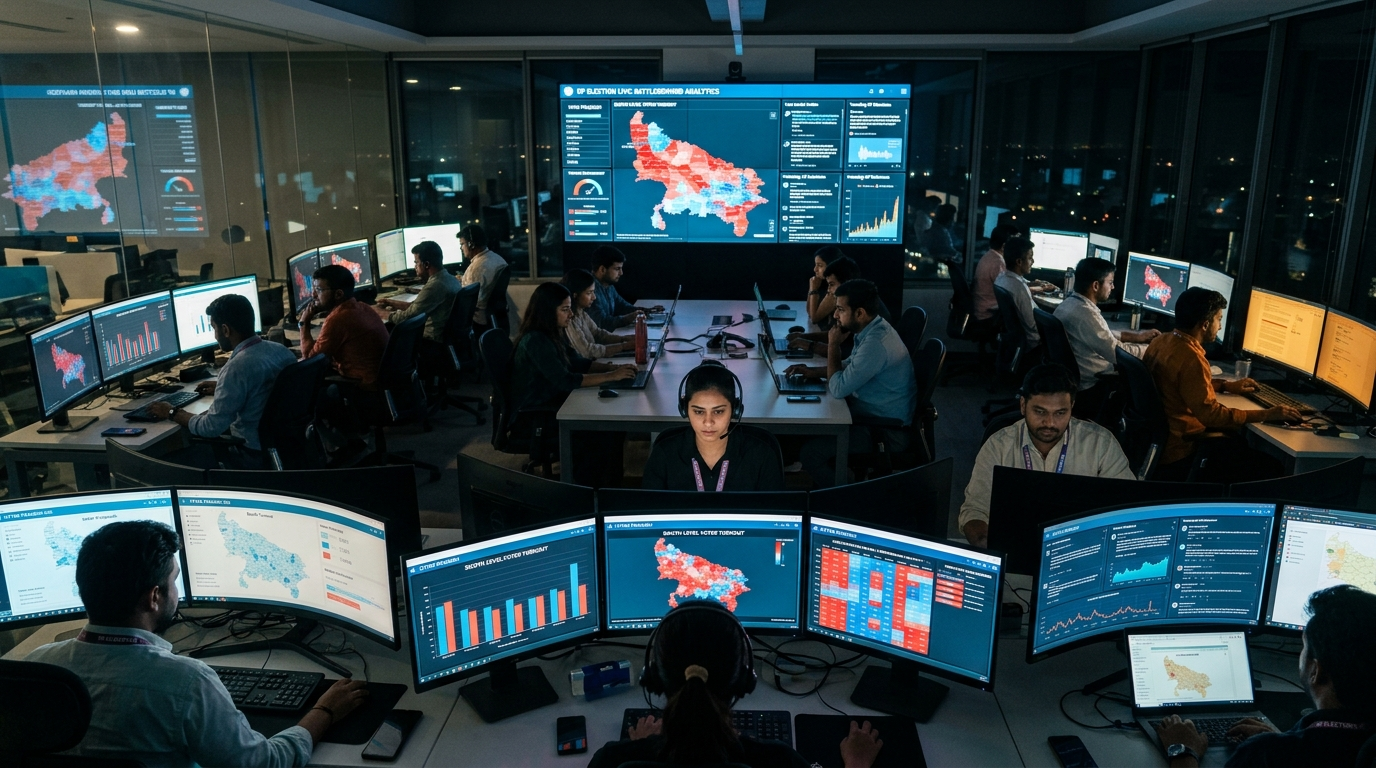
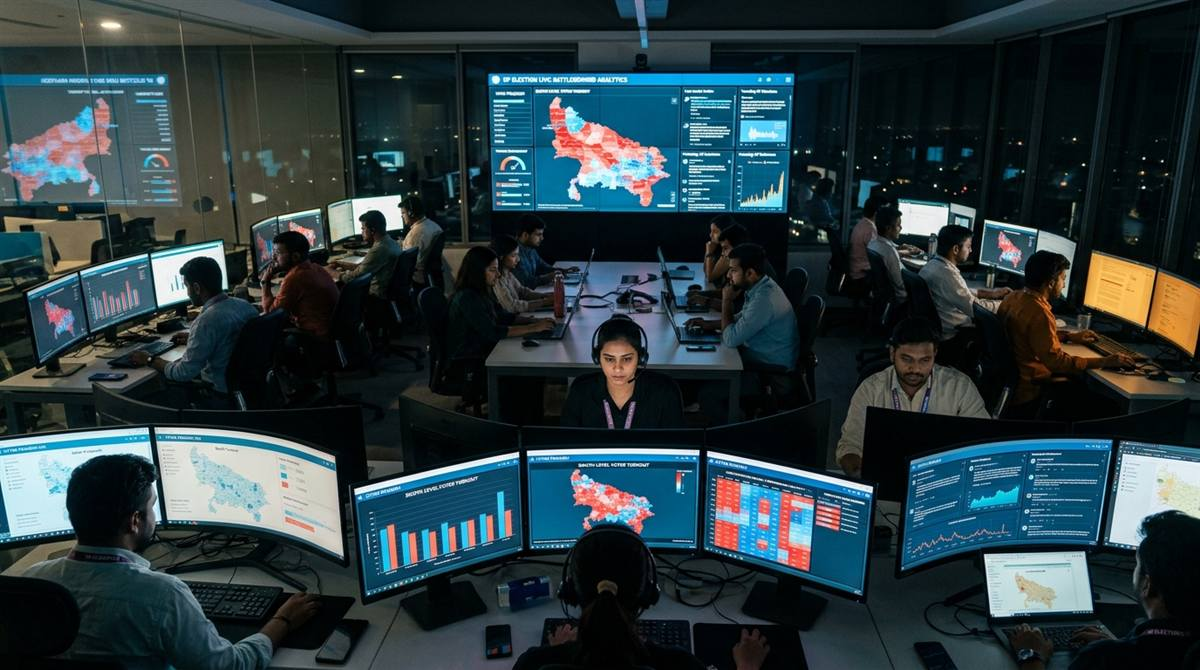
Optimize site performance: compress images 85%+, defer ambient video stream, enable asset caching and gzip

Changed region(s): [[0.6167, 0.806, 0.6475, 0.8358], [0.0925, 0.4478, 0.1233, 0.4776]]

diff --git a/components/common/VideoFacade.tsx b/components/common/VideoFacade.tsx
@@ -1,6 +1,6 @@
 'use client';
 
-import React, { useState, useRef } from 'react';
+import React, { useState, useRef, useEffect } from 'react';
 import { Play, RotateCcw, Video as VideoIcon, Volume2 } from 'lucide-react';
 import { cn } from '@/lib/utils';
 
@@ -13,6 +13,7 @@ interface VideoFacadeProps {
   className?: string;
   badge?: string;
   autoPlayPreview?: boolean;
+  poster?: string;
 }
 
 export function VideoFacade({
@@ -24,9 +25,21 @@ export function VideoFacade({
   className,
   badge = 'Brand Showreel 4K',
   autoPlayPreview = true,
+  poster = '/images/projects/warroom.jpg',
 }: VideoFacadeProps) {
   const [isPlaying, setIsPlaying] = useState(false);
+  const [isAmbientReady, setIsAmbientReady] = useState(false);
   const videoRef = useRef<HTMLVideoElement>(null);
+
+  // Defer ambient video loading to avoid blocking initial critical page hydration
+  useEffect(() => {
+    if (videoSrc && autoPlayPreview) {
+      const timer = setTimeout(() => {
+        setIsAmbientReady(true);
+      }, 1000);
+      return () => clearTimeout(timer);
+    }
+  }, [videoSrc, autoPlayPreview]);
 
   const aspectClass = {
     '16/9': 'aspect-video',
@@ -68,6 +81,7 @@ export function VideoFacade({
               controls
               autoPlay
               playsInline
+              preload="auto"
               className="w-full h-full object-cover"
               onEnded={() => setIsPlaying(false)}
             >
@@ -95,21 +109,34 @@ export function VideoFacade({
           </div>
         )
       ) : (
-        /* Facade view before click (ambient looping preview if videoSrc available) */
+        /* Facade view before click (lightweight background image + deferred ambient preview) */
         <button
           type="button"
           onClick={handleStartPlay}
           className="w-full h-full relative flex flex-col items-center justify-center text-center p-6 cursor-pointer focus:outline-none focus:ring-2 focus:ring-gold-500 group overflow-hidden"
           aria-label={`Play video: ${title}`}
         >
-          {/* Ambient Video Background */}
-          {videoSrc && autoPlayPreview ? (
+          {/* Static high-res poster image loads instantly with 0ms delay */}
+          {poster && (
+            <img
+              src={poster}
+              alt=""
+              aria-hidden="true"
+              className="absolute inset-0 w-full h-full object-cover opacity-60 scale-105 group-hover:scale-100 transition-all duration-700 ease-out pointer-events-none"
+              loading="eager"
+              decoding="async"
+            />
+          )}
+
+          {/* Ambient Video Background loads only after page hydration to avoid lag */}
+          {videoSrc && autoPlayPreview && isAmbientReady ? (
             <video
               src={videoSrc}
               muted
               autoPlay
               loop
               playsInline
+              preload="metadata"
               className="absolute inset-0 w-full h-full object-cover opacity-60 scale-105 group-hover:scale-100 transition-all duration-700 ease-out pointer-events-none"
             />
           ) : null}
